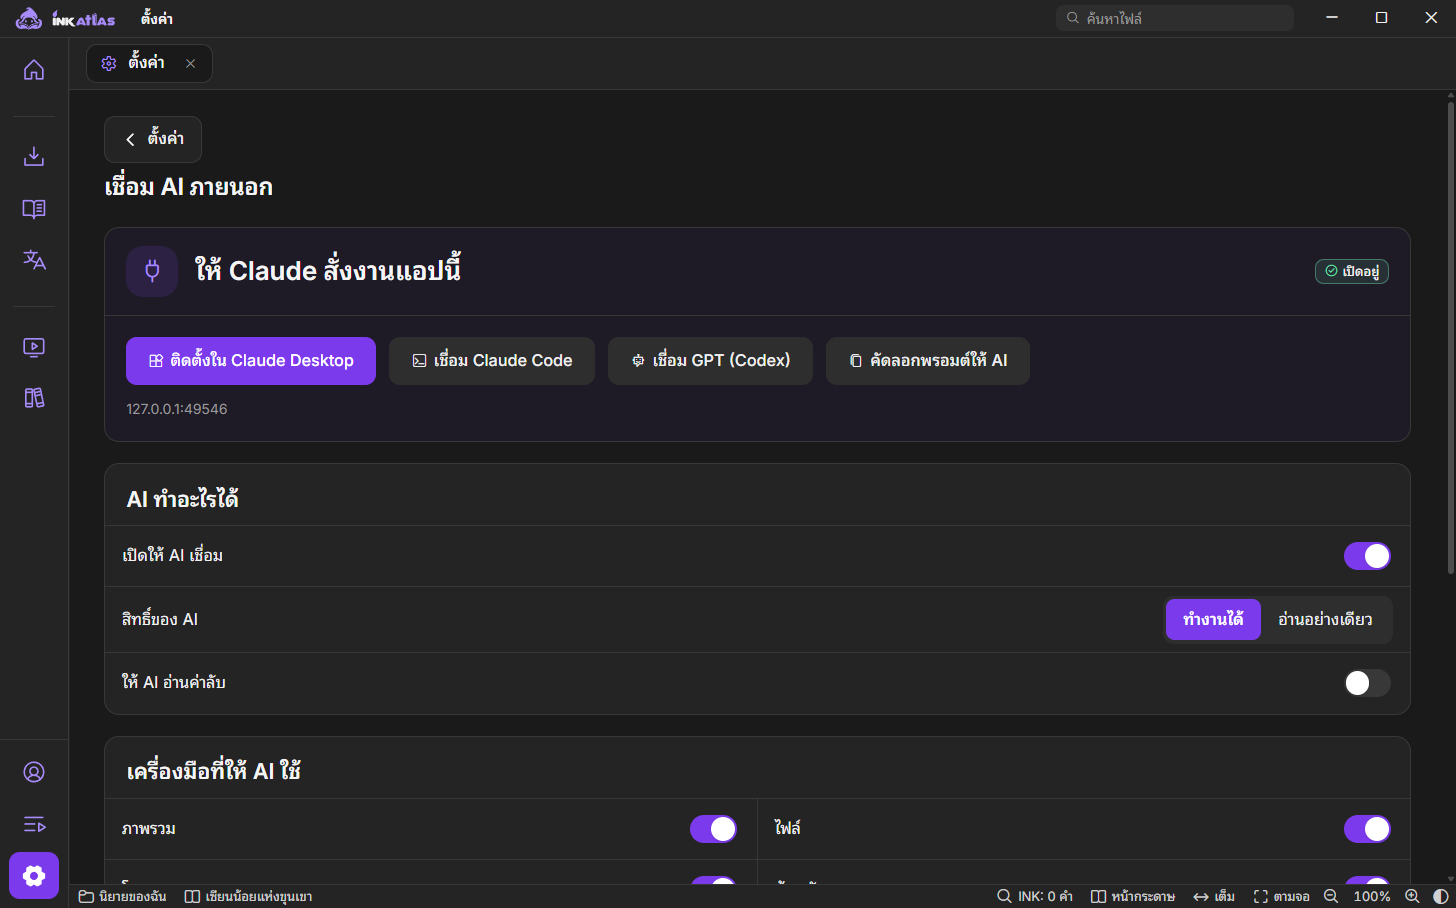
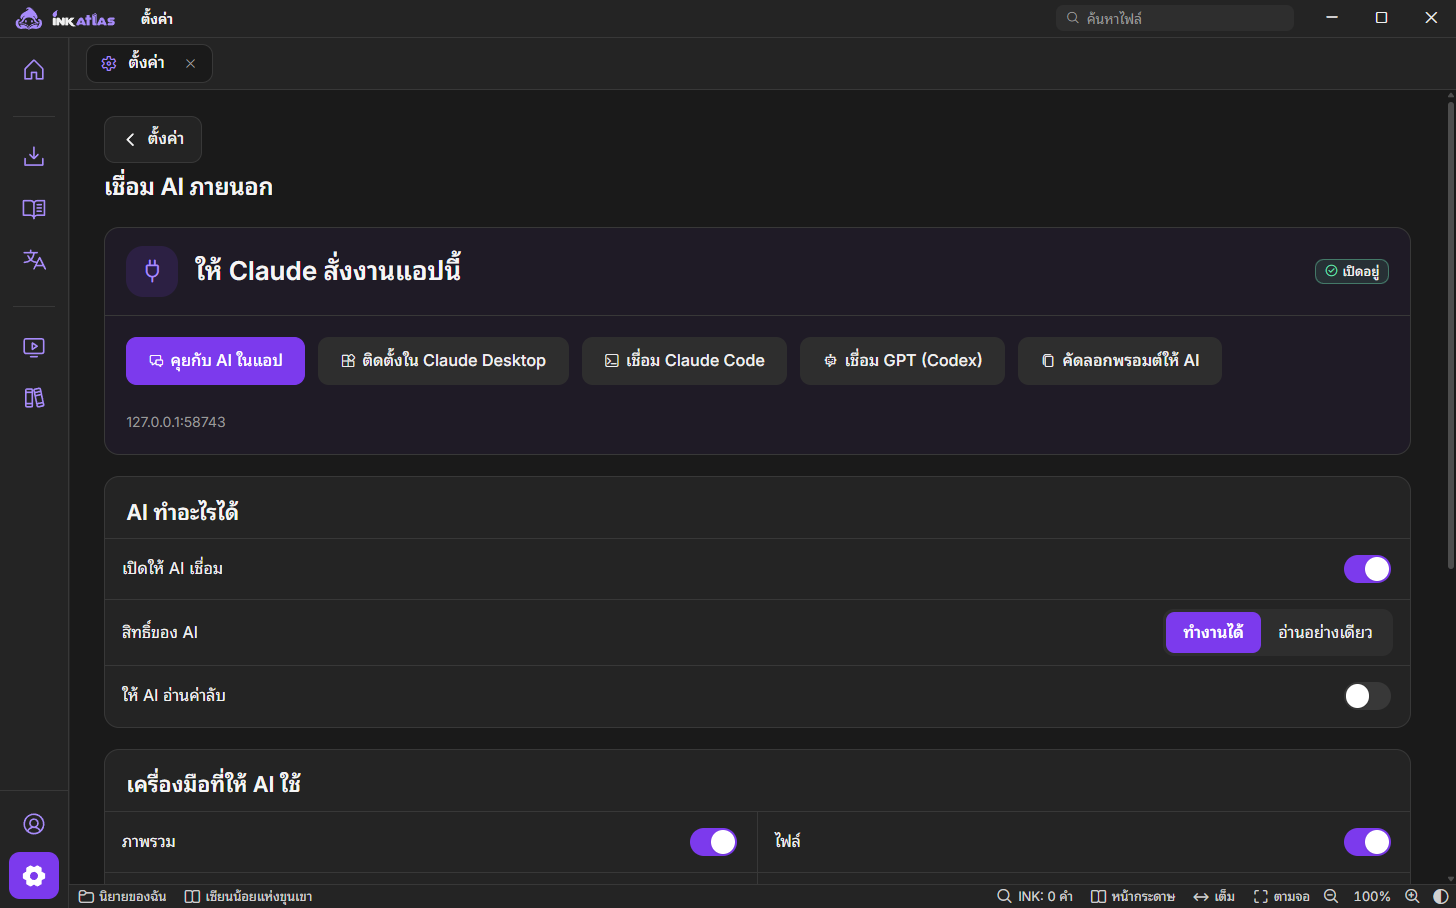
docs: หน้า repo ปรับตาม 1.0.1 — ภาพ/GIF ใหม่จากแอปรุ่นล่าสุด · แชตในแอป · รอตัดสินใจให้ AI แก้เอง

diff --git a/README.md b/README.md
@@ -39,6 +39,7 @@
 </p>
 
 กดปุ่มโปรแกรม AI ที่ใช้ (ตัวที่เครื่องมีอยู่จะขึ้นก่อน) ทำตามข้อเดียวที่แอปบอก แล้วพิมพ์ข้อความแรกในแชตของ AI
+หรือกด **คุยกับ AI ในแอป** เพื่อสั่งงานผ่านแชตในหน้าต่างของแอปเอง
 เมื่อ AI เรียกเข้ามาจริง แอปจะขึ้น **"ต่อ Claude แล้ว"** ให้เห็นเอง
 
 <p align="center">
@@ -53,7 +54,8 @@
 
 - **คุม AI** — ดูว่า AI ต่ออยู่ไหม ตั้งสิทธิ์เป็น "ทำงานได้" หรือ "ดูอย่างเดียว" และหยุดงานได้ทันที
 - **ความเคลื่อนไหว** — บันทึกว่า AI ทำอะไรไปแล้ว
-- **รอตัดสินใจ** — เฉพาะเรื่องที่ AI ตัดสินเองไม่ได้ ต้องให้คุณเคาะ
+- **สั่งงาน** — แชตกับ AI ในแอปเลย ไม่ต้องเปิดโปรแกรมอื่น เปิดแอปทุกครั้งขึ้นแชทใหม่ เรื่องเก่าดูย้อนหลังได้
+- **รอตัดสินใจ** — เฉพาะเรื่องที่ AI ตัดสินเองไม่ได้ ต้องให้คุณเคาะ กด **ให้ AI แก้** หรือเปิด **AI แก้เอง** ให้ AI แก้ปัญหาที่ค้างให้
 
 ### ทัวร์แนะนำ
 
